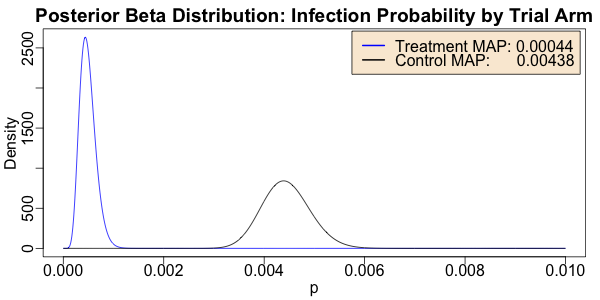
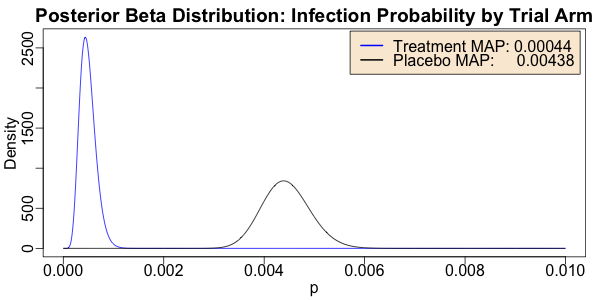
Add some analysis.

Changed region(s): [[0.63, 0.12, 0.96, 0.24], [0.57, 0.09, 0.6, 0.24]]

diff --git a/_posts/2020-11-09-vaccine-efficacy-data.md b/_posts/2020-11-09-vaccine-efficacy-data.md
@@ -180,7 +180,7 @@ they should be.
 
 > source("~/Documents/laboratory/tools/graphics-tools.r")
 
-> withPNG("./images/2020-11-09-vaccine-efficacy-data.png", 600, 300, FALSE, function() { withPars(function() { matplot(ps, matrix(c(pTs, pPs), byrow = FALSE, ncol = 2), type = "l", lty = "solid", col = c("blue", "black"), xlab = "p", ylab = "Density", main = "Posterior Beta Distribution: Infection Probability by Trial Arm"); legend("topright", inset = 0.01, bg = "antiquewhite", legend = c(sprintf("Treatment MAP: %.5f", ps[which.max(pTs)]), sprintf("Control MAP:      %.5f", ps[which.max(pPs)])), col = c("blue", "black"), lty = "solid", lwd = 2) }, pty = "m", bg = "transparent", ps = 16, mar = c(3, 3, 2, 1), mgp = c(1.7, 0.5, 0)) })
+> withPNG("./images/2020-11-09-vaccine-efficacy-data.png", 600, 300, FALSE, function() { withPars(function() { matplot(ps, matrix(c(pTs, pPs), byrow = FALSE, ncol = 2), type = "l", lty = "solid", col = c("blue", "black"), xlab = "p", ylab = "Density", main = "Posterior Beta Distribution: Infection Probability by Trial Arm"); legend("topright", inset = 0.01, bg = "antiquewhite", legend = c(sprintf("Treatment MAP: %.5f", ps[which.max(pTs)]), sprintf("Placebo MAP:     %.5f", ps[which.max(pPs)])), col = c("blue", "black"), lty = "solid", lwd = 2) }, pty = "m", bg = "transparent", ps = 16, mar = c(3, 3, 2, 1), mgp = c(1.7, 0.5, 0)) })
 ```
 
 <a href="{{ site.baseurl }}/images/2020-11-09-vaccine-efficacy-data.png" target="_blank"><img src="{{ site.baseurl }}/images/2020-11-09-vaccine-efficacy-data.png" height="150" width="300" alt="Bayesian posteriors" title="Bayesian posteriors" style="float: right; margin: 3px 3px 3px 3px; border: 1px solid #000000;"></a>
